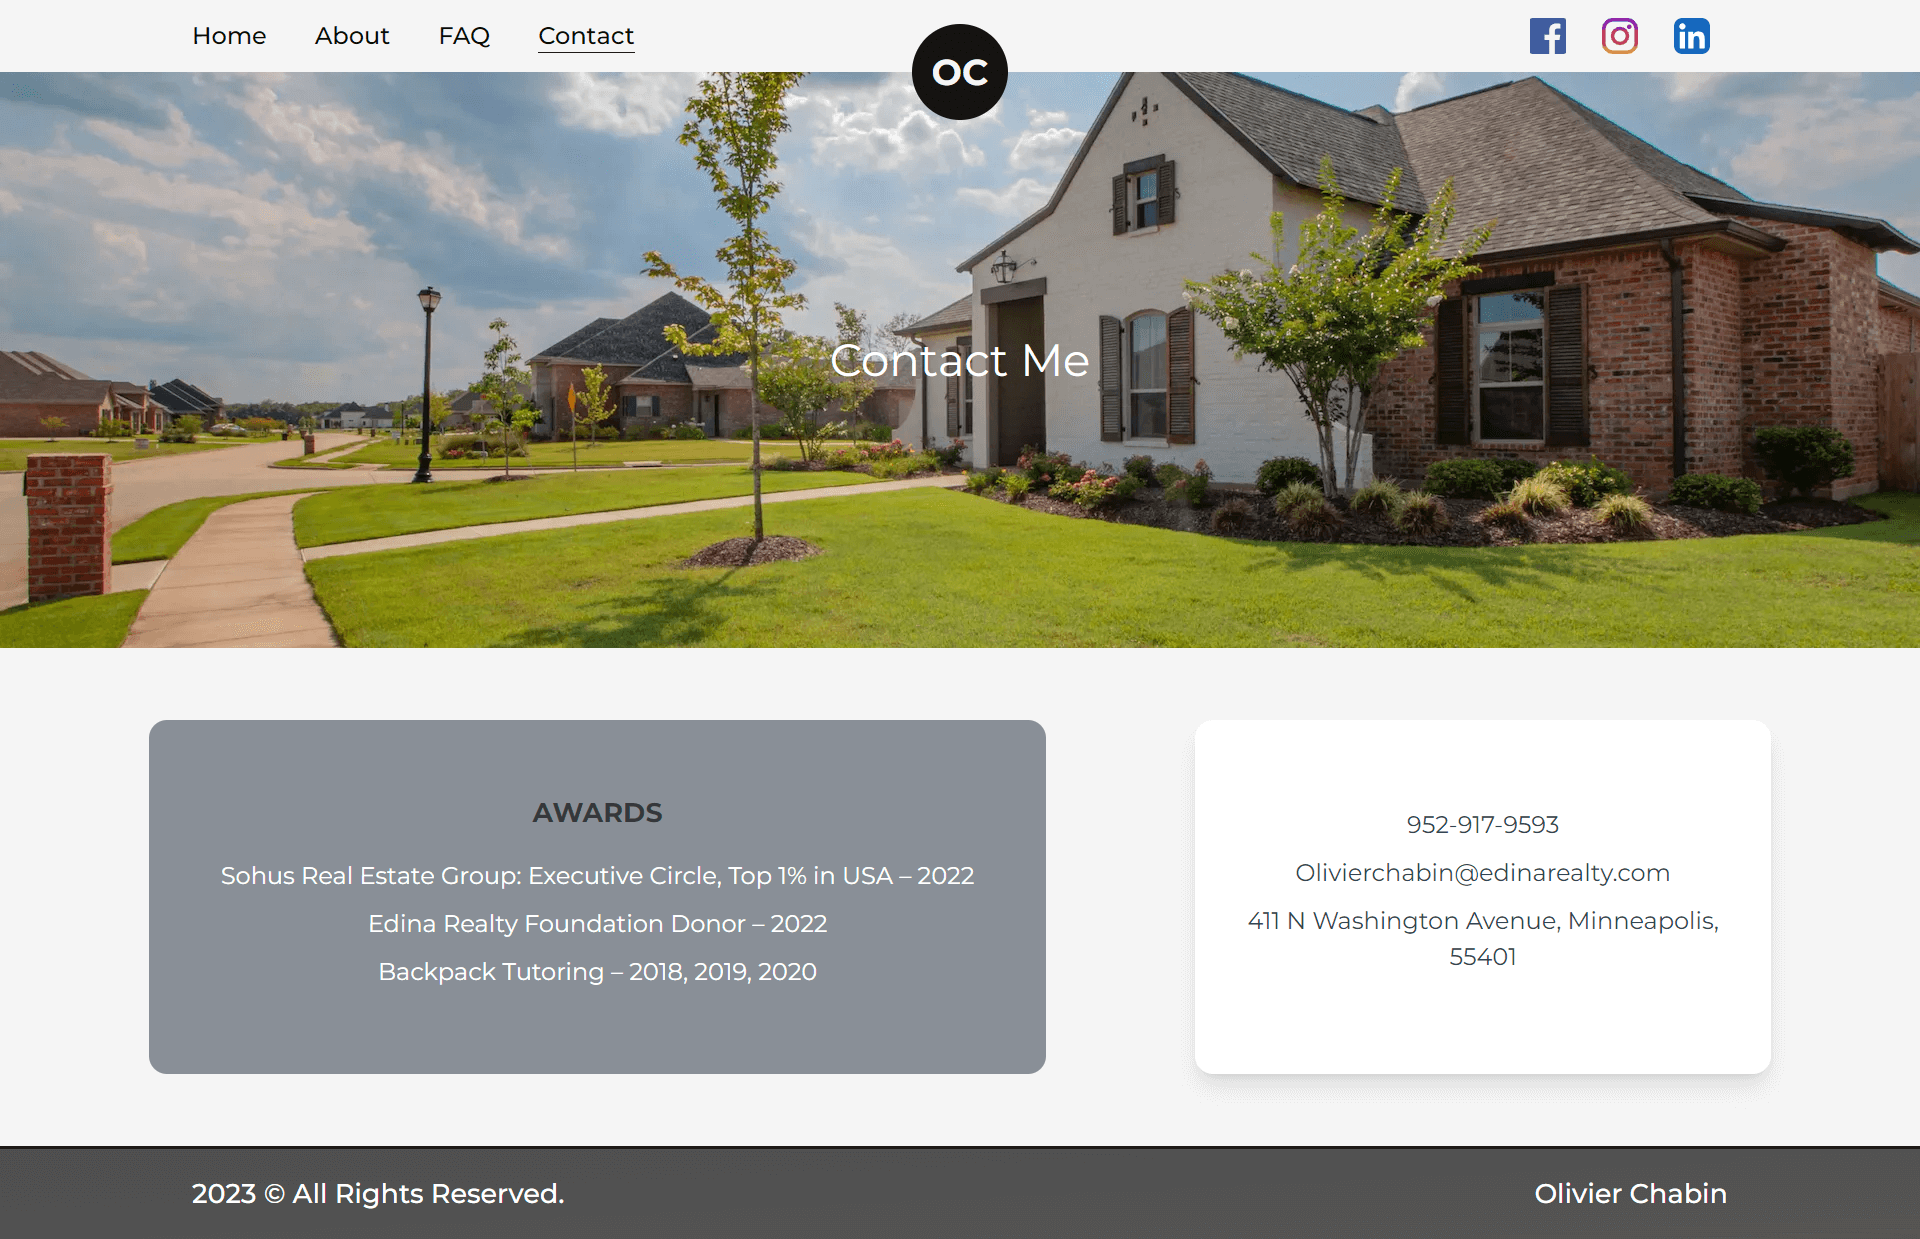
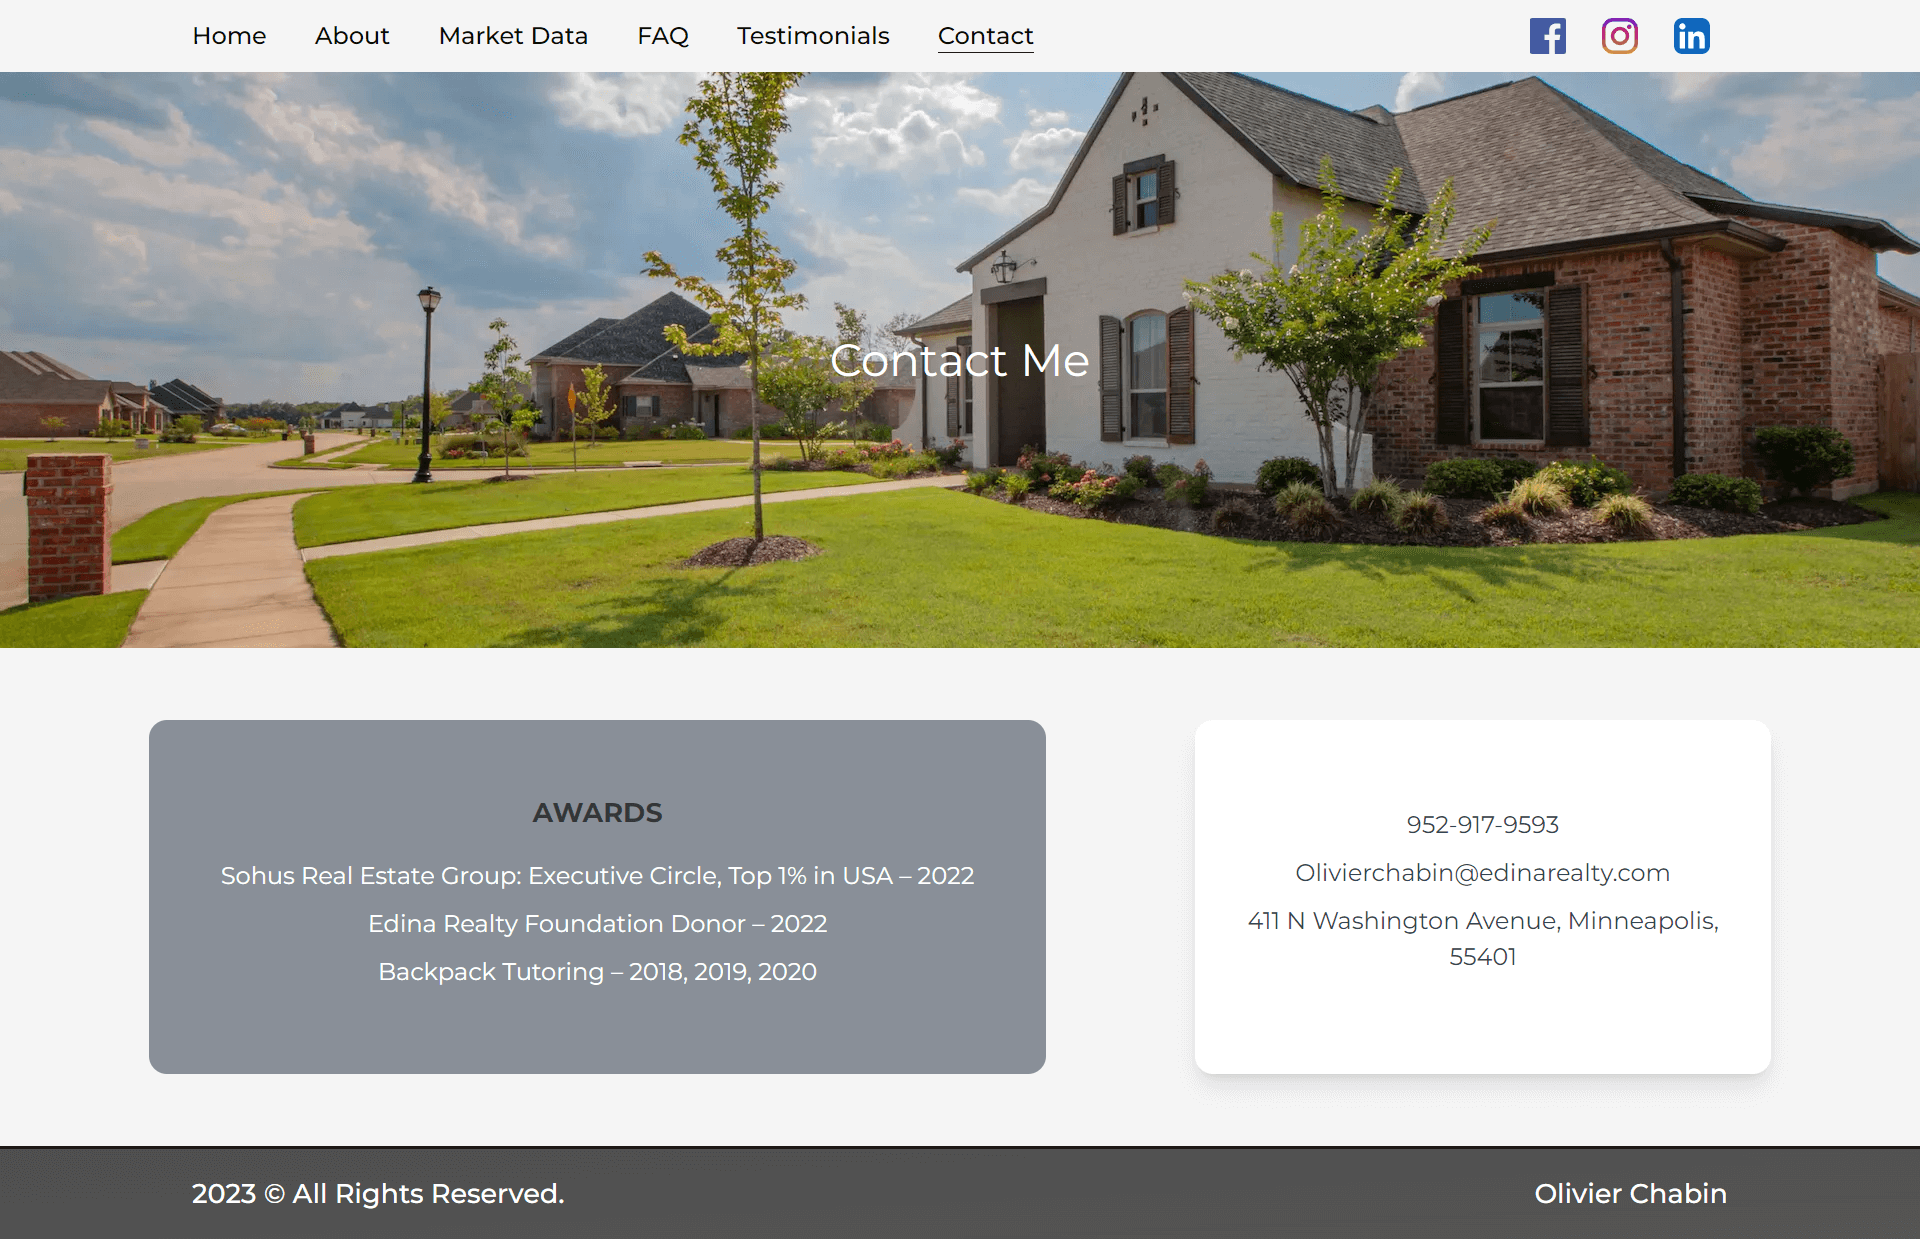
Update images for new pages

Changed region(s): [[0.4688, 0.0, 0.5312, 0.092], [0.2188, 0.0, 0.3438, 0.0613], [0.4062, 0.0, 0.4375, 0.0307]]

diff --git a/README.md b/README.md
@@ -1,11 +1,13 @@
 # **Olivier Chabin**
-<img src="./images/OlivierWebsiteScreenshotEdited2.png" alt="Screenshot for the Home page" width="1000"/>
+<img src="./images/OlivierHomeScreenshot.png" alt="Screenshot for the Home page" width="1000"/>
 
 ## **Table of Contents**
 - [License](#license)
 - [Project Overview](#project-overview)
 - [About Me](#about-me)
+- [Market Data](#market-data)
 - [FAQ](#faq)
+- [Testimonials](#testimonials)
 - [Contact Me](#contact-me)
 - [Unique Technologies](#unique-technologies)
 - [Technologies Used](#technologies-used)
@@ -20,14 +22,17 @@ A fully responsive website for my real estate client Olivier Chabin. Experience 
 ## **About Me**
 <img src="./images/OlivierAboutMeScreenshot.png" alt="Screenshot for the About Me page" width="1000"/>
 
+## **Market Data**
+<img src="./images/OlivierMarketDataScreenshot.png" alt="Screenshot for the About Me page" width="1000"/>
+
 ## **FAQ**
 <img src="./images/OlivierFAQScreenshot.png" alt="Screenshot for the FAQ page" width="1000"/>
 
+## **Testimonials**
+<img src="./images/OlivierTestimonialsScreenshot.png" alt="Screenshot for the FAQ page" width="1000"/>
+
 ## **Contact Me**
 <img src="./images/OlivierContactMeScreenshot.png" alt="Screenshot for the Contact Me page" width="1000"/>
-
-
-
 
 ## **Unique Technologies**
 **Next.js**
